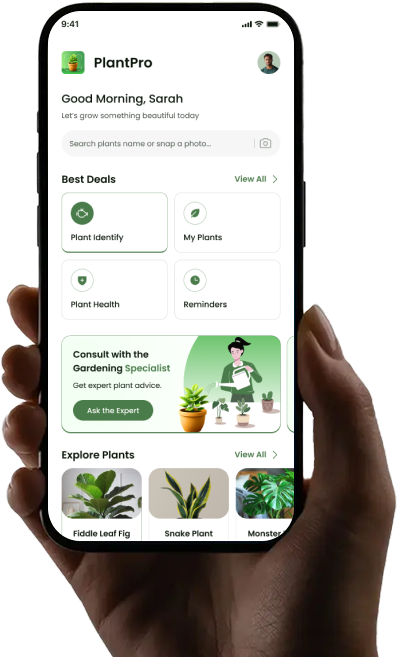
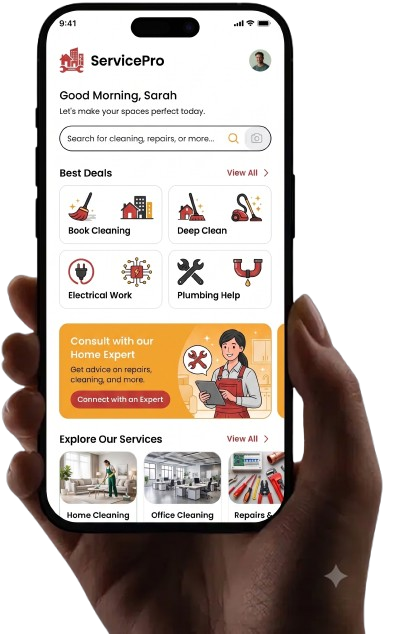
update hero section

diff --git a/src/components/section/hero/HeroSection.tsx b/src/components/section/hero/HeroSection.tsx
@@ -63,26 +63,19 @@ export default function HeroSection() {
           "linear-gradient(135deg, #f5f0e4 0%, #faf8f0 60%, #f0ebe0 100%)",
       }}
     >
-      {/* Soft radial glow — top-right decoration */}
-      <div
-        className="absolute -top-32 -right-32 w-125 h-125 rounded-full opacity-30 pointer-events-none"
-        style={{
-          background: "radial-gradient(circle, #f0d080 0%, transparent 70%)",
-        }}
-      />
 
       <div className="max-w-7xl mx-auto px-4 sm:px-6 lg:px-8 py-5">
         <div className="flex flex-col lg:flex-row items-center gap-12 lg:gap-0">
           {/* ── LEFT COLUMN */}
-          <div className="flex-1 lg:pr-10 text-left">
+          <div className="flex-1 lg:pr-10 text-center lg:text-left flex flex-col items-center lg:items-start">
             {/* Headline */}
             <motion.h1
               initial={{ opacity: 0, y: 28 }}
               animate={{ opacity: 1, y: 0 }}
               transition={{ duration: 0.55 }}
-              className="text-[2.6rem] sm:text-5xl lg:text-[3.4rem] font-extrabold leading-tight tracking-tight text-black"
+              className="text-4xl sm:text-5xl lg:text-[3.4rem] font-extrabold leading-tight tracking-tight text-black"
             >
-              All Your <span className="text-red-500">Services</span>,One{" "}
+              All Your <span className="text-red-500">Services</span>, One{" "}
               <br className="hidden sm:block" />
               Smart Platform.
             </motion.h1>
@@ -92,7 +85,7 @@ export default function HeroSection() {
               initial={{ opacity: 0, y: 16 }}
               animate={{ opacity: 1, y: 0 }}
               transition={{ duration: 0.5, delay: 0.18 }}
-              className="mt-6 flex flex-wrap items-center gap-2"
+              className="mt-6 flex flex-wrap items-center justify-center lg:justify-start gap-2"
             >
               <span className="text-stone-500 font-semibold mr-1">
                 Popular Search:
@@ -113,14 +106,14 @@ export default function HeroSection() {
               initial={{ opacity: 0, y: 16 }}
               animate={{ opacity: 1, y: 0 }}
               transition={{ duration: 0.5, delay: 0.3 }}
-              className="flex items-stretch bg-white rounded-md shadow-[0_4px_24px_rgba(0,0,0,0.10)] border-5 border-red-500 overflow-hidden max-w-2xl mt-6"
+              className="flex flex-col md:flex-row items-stretch md:items-center bg-white rounded-xl shadow-[0_4px_24px_rgba(0,0,0,0.10)] border-4 border-red-500 w-full max-w-2xl mt-6 relative z-10"
             >
               {/* Location picker */}
-              <div className="relative">
+              <div className="relative border-b md:border-b-0 md:border-r border-stone-200 w-full md:w-auto">
                 <button
                   type="button"
                   onClick={() => setLocOpen((p) => !p)}
-                  className="flex items-center gap-2 px-4 py-2 text-base font-semibold text-stone-700 bg-transparent border-r border-stone-100 hover:bg-stone-50 transition-colors duration-150 cursor-pointer whitespace-nowrap"
+                  className="flex w-full items-center justify-between md:justify-start gap-2 px-4 py-3 md:py-2 text-base font-semibold text-stone-700 bg-transparent hover:bg-stone-50 transition-colors duration-150 cursor-pointer whitespace-nowrap rounded-t-xl md:rounded-l-xl md:rounded-tr-none"
                 >
                   <HiLocationMarker className="text-amber-500 text-base shrink-0" />
                   <span className="flex flex-col items-start">
@@ -162,7 +155,7 @@ export default function HeroSection() {
               </div>
 
               {/* Service search input */}
-              <div className="flex-1 flex items-center px-4 gap-2">
+              <div className="flex-1 flex items-center px-4 py-3 md:py-0 gap-2 w-full md:w-auto">
                 <HiSearch className="text-stone-400 text-base shrink-0" />
                 <input
                   type="text"
@@ -175,13 +168,15 @@ export default function HeroSection() {
               </div>
 
               {/* Search CTA button */}
-              <CustomButton
-                type="submit"
-                id="hero-search-btn"
-                className="m-2 shrink-0"
-              >
-                Search
-              </CustomButton>
+              <div className="px-4 pb-4 md:p-0 md:pr-2 shrink-0 flex w-full md:w-auto">
+                <CustomButton
+                  type="submit"
+                  id="hero-search-btn"
+                  className="w-full md:w-auto py-3 md:py-2 m-0 md:m-2"
+                >
+                  Search
+                </CustomButton>
+              </div>
             </motion.form>
 
             {/* Location + Search bar */}
@@ -191,7 +186,7 @@ export default function HeroSection() {
               initial={{ opacity: 0, y: 12 }}
               animate={{ opacity: 1, y: 0 }}
               transition={{ duration: 0.5, delay: 0.44 }}
-              className="mt-8 flex flex-wrap gap-6 sm:gap-8"
+              className="mt-8 flex flex-wrap justify-center lg:justify-start gap-6 sm:gap-8"
             >
               {stats.map((s) => (
                 <div key={s.label} className="flex items-center gap-2.5">

diff --git a/src/components/section/services/PopularPicks.tsx b/src/components/section/services/PopularPicks.tsx
@@ -1,4 +1,4 @@
-import React, { useState } from 'react';
+import { useState } from 'react';
 import { Link } from 'react-router-dom';
 import { FaStar } from 'react-icons/fa';
 import { FiArrowRight } from 'react-icons/fi';
@@ -133,7 +133,7 @@ const PopularPicks = () => {
                   className="w-full h-full object-cover"
                 />
               </div>
-              <div className="p-5 flex flex-col flex-grow justify-between">
+              <div className="p-5 flex flex-col grow justify-between">
                 <h3 className="font-bold text-gray-900 text-[17px] mb-4">
                   {service.title}
                 </h3>

diff --git a/src/components/section/testimonials/Testimonials.tsx b/src/components/section/testimonials/Testimonials.tsx
@@ -1,4 +1,4 @@
-import React, { useState } from 'react';
+import { useState } from 'react';
 import { motion } from 'framer-motion';
 import { FaStar } from 'react-icons/fa';
 import { RiDoubleQuotesR } from 'react-icons/ri';
